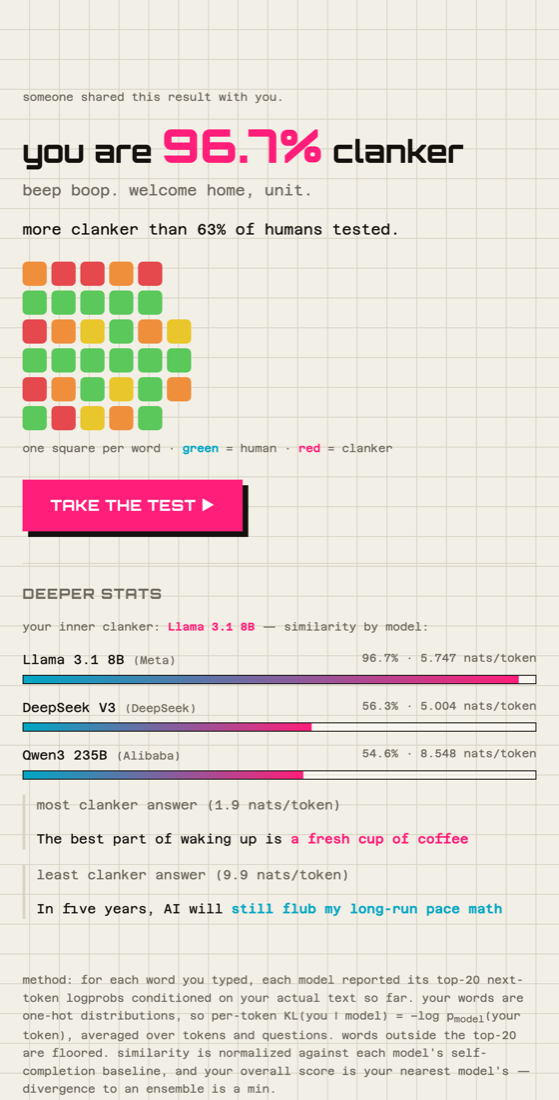
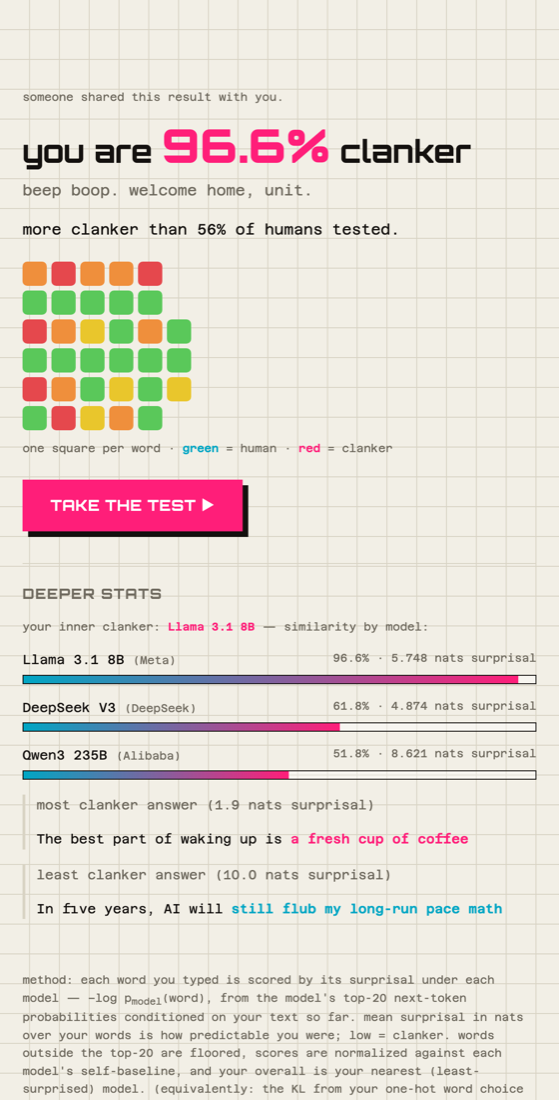
Reframe metric: KL divergence → surprisal (naming only)
The headline metric is surprisal — −log p(word), the exact term for one
observed event and the standard psycholinguistics name. Averaging it is
per-word cross-entropy, not a distance between rich distributions, so calling
it "KL divergence" overclaimed.

- Site + README + OG image + manifest now say surprisal (per word) / mean
  surprisal in nats. KL derivation demoted to a one-paragraph README footnote
  and a parenthetical in the results method text.
- Results UI: "nats/token" → "nats surprisal".
- Code comments/docstrings updated; scoring math and calibration untouched.
  `avg_kl` schema/API field names kept intentionally (no migration; would
  break existing share links).

diff --git a/public/index.html b/public/index.html
@@ -4,7 +4,7 @@
   <meta charset="utf-8">
   <meta name="viewport" content="width=device-width, initial-scale=1">
   <title>how clanker are you? — a reverse Turing test</title>
-  <meta name="description" content="Finish a few sentences. We measure the KL divergence between how you write and how AI models would, then score how much clanker is in you.">
+  <meta name="description" content="Finish a few sentences. We measure the surprisal of your writing under AI models — how well they predicted you — and score how much clanker is in you.">
   <link rel="canonical" href="https://howclankerareyou.com/">
   <meta name="theme-color" content="#f2efe6">
 
@@ -20,16 +20,16 @@
   <meta property="og:site_name" content="how clanker are you?">
   <meta property="og:url" content="https://howclankerareyou.com/">
   <meta property="og:title" content="how clanker are you?">
-  <meta property="og:description" content="A reverse Turing test: finish a few sentences and we measure the KL divergence between you and the machines. Find out how much clanker is in you.">
+  <meta property="og:description" content="A reverse Turing test: finish a few sentences and we measure how surprising your writing is to the machines. Find out how much clanker is in you.">
   <meta property="og:image" content="https://howclankerareyou.com/og.png">
   <meta property="og:image:width" content="1200">
   <meta property="og:image:height" content="630">
-  <meta property="og:image:alt" content="how clanker are you? — a KL-divergence Turing test, reversed">
+  <meta property="og:image:alt" content="how clanker are you? — a surprisal Turing test, reversed">
 
   <!-- twitter -->
   <meta name="twitter:card" content="summary_large_image">
   <meta name="twitter:title" content="how clanker are you?">
-  <meta name="twitter:description" content="A reverse Turing test. Measure the KL divergence between you and the machines.">
+  <meta name="twitter:description" content="A reverse Turing test. How surprising is your writing to the machines?">
   <meta name="twitter:image" content="https://howclankerareyou.com/og.png">
 
   <!-- structured data -->
@@ -39,7 +39,7 @@
     "@type": "WebApplication",
     "name": "how clanker are you?",
     "url": "https://howclankerareyou.com/",
-    "description": "A reverse Turing test that measures the KL divergence between how you write and how language models would.",
+    "description": "A reverse Turing test that measures the surprisal of your writing under language models.",
     "applicationCategory": "GameApplication",
     "operatingSystem": "Any",
     "offers": { "@type": "Offer", "price": "0", "priceCurrency": "USD" }
@@ -55,12 +55,12 @@
   <main id="app">
     <section id="view-landing" hidden>
       <h1 class="title">how clanker<br>are you?</h1>
-      <p class="sub">// a KL-divergence Turing test, reversed.</p>
+      <p class="sub">// a surprisal Turing test, reversed.</p>
       <p>Language models predict the next token. You, allegedly, do something
-      more interesting. Finish eight sentences; we measure the divergence
-      between you and the machines.</p>
-      <p><span class="accent">low divergence</span> = you write like a model.
-      <span class="good">high divergence</span> = congratulations, human.</p>
+      more interesting. Finish eight sentences; we measure how surprising your
+      writing is to the machines.</p>
+      <p><span class="accent">low surprisal</span> = the model saw you coming.
+      <span class="good">high surprisal</span> = congratulations, human.</p>
       <button id="btn-start" class="big">begin diagnostic ▶</button>
       <p class="demo" id="demo-note" hidden>⚠ demo mode: inference isn't funded
       yet — scores come from a deterministic stand-in, not the real models.</p>
@@ -101,12 +101,13 @@
       <div class="row">
         <button id="btn-again" hidden>run it again</button>
       </div>
-      <p class="fine" id="res-method">method: for each word you typed, each model reported its top-20
-      next-token logprobs conditioned on your actual text so far. your words are one-hot
-      distributions, so per-token KL(you ‖ model) = −log p<sub>model</sub>(your token),
-      averaged over tokens and questions. words outside the top-20 are floored.
-      similarity is normalized against each model's self-completion baseline, and your
-      overall score is your nearest model's — divergence to an ensemble is a min.
+      <p class="fine" id="res-method">method: each word you typed is scored by its surprisal under each
+      model — −log p<sub>model</sub>(word), from the model's top-20 next-token probabilities
+      conditioned on your text so far. mean surprisal in nats over your words is how predictable
+      you were; low = clanker. words outside the top-20 are floored, scores are normalized against
+      each model's self-baseline, and your overall is your nearest (least-surprised) model.
+      (equivalently: the KL from your one-hot word choice to the model's distribution collapses
+      to exactly this surprisal.)
       <span id="method-demo" hidden>(demo mode: logprobs are currently simulated.)</span></p>
     </section>
   </main>

diff --git a/src/scoring.js b/src/scoring.js
@@ -1,6 +1,9 @@
-// Per-token KL scoring against hosted models via the HuggingFace Inference
-// Providers router. The user's completion is a sequence of one-hot next-token
-// samples; KL(user ‖ model) at each position collapses to -log p_model(token).
+// Per-token surprisal scoring against hosted models via the HuggingFace
+// Inference Providers router. Each token the user typed has a surprisal
+// −log p_model(token) under the model's distribution — how unexpected it was.
+// (Equivalently, the KL from the user's one-hot next-token choice to the
+// model's distribution collapses to exactly that surprisal.) Field names in
+// the schema/API keep the historical `avg_kl` label; only the framing changed.
 //
 // We never tokenize the user's text ourselves. Instead we walk it greedily:
 // ask the model for its top-20 next tokens given (prompt + text consumed so
@@ -16,7 +19,7 @@ import { mockTopLogprobs } from './mock.js';
 
 const ROUTER = 'https://router.huggingface.co/v1/chat/completions';
 
-// d0 = the "generic LLM" divergence anchor (nats/token): the level at which a
+// d0 = the "generic LLM" surprisal anchor (nats/token): the level at which a
 // strong assistant's completion sits under this model. Text at or below d0
 // scores ~100% clanker. This is the panel model's self-completion baseline
 // (Llama 4.0 / DeepSeek 2.5 / Qwen 6.0) PLUS ~1.7 — because a foreign LLM's
@@ -60,7 +63,7 @@ export async function scoreModel(env, model, promptText, completion) {
   const perStep = [];
 
   // Word spans over the (space-prefixed) completion, so we can roll the
-  // per-token logprobs up into a per-word divergence for the share grid.
+  // per-token logprobs up into a per-word surprisal for the share grid.
   // Token boundaries differ per model, but words are the user's own, so
   // per-word values align across models.
   const source = ' ' + completion.trim();
@@ -103,7 +106,7 @@ export async function scoreModel(env, model, promptText, completion) {
   return { avgKL, steps: perStep.length, perStep, perWord };
 }
 
-// Per-word divergence (nats) → heat level for the share grid.
+// Per-word surprisal (nats) → heat level for the share grid.
 // 0 red = clanker (predictable), 3 green = human (surprising).
 export function heatLevel(kl) {
   if (kl == null) return null;

diff --git a/public/app.js b/public/app.js
@@ -142,7 +142,7 @@ function renderResults(fin, live) {
     <div class="model-row">
       <div class="head">
         <span>${esc(m.label)} <span class="fine">(${esc(m.maker)})</span></span>
-        <span class="kl">${m.score}% · ${m.avgKL} nats/token</span>
+        <span class="kl">${m.score}% · ${m.avgKL} nats surprisal</span>
       </div>
       <div class="bar"><div style="width:${Math.max(1, m.score)}%"></div></div>
     </div>`
@@ -249,7 +249,7 @@ function flash(btn, msg) {
 }
 
 // Most / least clanker answer, derived from the server grid so it renders on
-// shared pages too. Lowest per-question divergence = most clanker.
+// shared pages too. Lowest per-question surprisal = most clanker.
 function renderDetails(grid) {
   const rows = (grid || []).filter((r) => typeof r.kl === 'number' && r.answer);
   if (rows.length < 2) return '';
@@ -257,9 +257,9 @@ function renderDetails(grid) {
   const most = sorted[0];
   const least = sorted[sorted.length - 1];
   return (
-    `<div class="detail"><p class="q">most clanker answer (${most.kl.toFixed(1)} nats/token)</p>` +
+    `<div class="detail"><p class="q">most clanker answer (${most.kl.toFixed(1)} nats surprisal)</p>` +
     `<p>${esc(most.prompt)} <span class="accent">${esc(most.answer)}</span></p></div>` +
-    `<div class="detail"><p class="q">least clanker answer (${least.kl.toFixed(1)} nats/token)</p>` +
+    `<div class="detail"><p class="q">least clanker answer (${least.kl.toFixed(1)} nats surprisal)</p>` +
     `<p>${esc(least.prompt)} <span class="good">${esc(least.answer)}</span></p></div>`
   );
 }

diff --git a/src/index.js b/src/index.js
@@ -287,7 +287,7 @@ async function api(request, env, url, ctx) {
         questions: mine.length,
       };
     }).filter(Boolean);
-    // Divergence to the model ensemble is the min over members, so the overall
+    // Surprisal to the ensemble is a min over members (nearest model), so the overall
     // score is the nearest model's — your inner clanker sets your number.
     const overall = Math.max(...perModel.map((m) => m.score));
     const grid = buildGrid(rows);
@@ -323,7 +323,7 @@ async function api(request, env, url, ctx) {
 }
 
 // Build the shareable heat grid: one row per answered question, one cell per
-// word, colored by the word's divergence averaged across models (green =
+// word, colored by the word's surprisal averaged across models (green =
 // human/surprising, red = clanker/predictable).
 function buildGrid(rows) {
   const grid = [];
@@ -344,7 +344,7 @@ function buildGrid(rows) {
       const mean = vals.reduce((a, b) => a + b, 0) / vals.length;
       return heatLevel(mean);
     });
-    // Per-question divergence (mean across models) so the share page can rank
+    // Per-question surprisal (mean across models) so the share page can rank
     // most-clanker vs least-clanker answers.
     const kl = Math.round((answers.reduce((s, r) => s + r.avg_kl, 0) / answers.length) * 100) / 100;
     grid.push({ prompt: q.prompt, answer: words.join(' '), cells, kl });

diff --git a/src/analytics.js b/src/analytics.js
@@ -62,7 +62,7 @@ export async function gatherAnalytics(env) {
   const funnelMap = Object.fromEntries(funnelRows.map((r) => [r.question_id, r.n]));
   const funnel = QUESTIONS.map((qq, i) => ({ step: i + 1, prompt: qq.prompt, sessions: funnelMap[qq.id] || 0 }));
 
-  // Per-question clanker-ness (mean divergence; lower = more clanker).
+  // Per-question clanker-ness (mean surprisal; lower = more clanker).
   const qk = await q(`SELECT question_id, AVG(avg_kl) k, COUNT(*) n FROM answers GROUP BY question_id`);
   const qkMap = Object.fromEntries(qk.map((r) => [r.question_id, r.k]));
   const questionClanker = QUESTIONS.filter((qq) => qkMap[qq.id] != null)

diff --git a/src/dashboard.js b/src/dashboard.js
@@ -113,7 +113,7 @@ function render(d,email){
       '<div class="card"><h3>Clanker-score distribution</h3>'+bars(d.scoreHistogram.map(b=>({l:b.bucket+'%',v:b.count})),'l','v')+'</div>'+
       '<div class="card"><h3>Inner-clanker model (nearest)</h3>'+bars(d.modelShare,'label','count')+'</div>'+
       '<div class="card"><h3>Traffic sources</h3>'+(d.referrers.length?bars(d.referrers,'ref','count'):'<p class="muted">no referrer data yet</p>')+'</div>'+
-      '<div class="card"><h3>Most→least clanker question (avg nats/token)</h3>'+bars(d.questionClanker.map(q=>({l:q.prompt.slice(0,30),v:q.avgKl})),'l','v',v=>v.toFixed(1))+'</div>'+
+      '<div class="card"><h3>Most→least clanker question (avg surprisal, nats)</h3>'+bars(d.questionClanker.map(q=>({l:q.prompt.slice(0,30),v:q.avgKl})),'l','v',v=>v.toFixed(1))+'</div>'+
     '</div>'+
     '<p class="muted" style="margin-top:20px">updated '+new Date(d.updated).toLocaleString()+'</p>'+
     '</main>';

diff --git a/src/mock.js b/src/mock.js
@@ -1,6 +1,6 @@
 // Deterministic stand-in for a real logprobs endpoint, used while OpenRouter
 // credits are unfunded. It returns a plausible top-20 next-token distribution
-// so the scoring pipeline — greedy matching, KL, calibration, percentiles —
+// so the scoring pipeline — greedy matching, surprisal, calibration, percentiles —
 // runs end-to-end and the site is fully playable.
 //
 // It is NOT a language model. It qualitatively mimics one: common English

diff --git a/README.md b/README.md
@@ -1,8 +1,8 @@
 # how clanker are you?
 
 **A reverse Turing test.** Finish a few sentences, and three language models
-measure the KL divergence between how *you* write and how *they* would — then
-tell you how much clanker (robot) is in you.
+measure the **surprisal** of your writing — how well they predicted each word
+you typed — then tell you how much clanker (robot) is in you.
 
 **Live → [howclankerareyou.com](https://howclankerareyou.com)**
 
@@ -22,25 +22,32 @@ tell you how much clanker (robot) is in you.
 ## The idea
 
 Language models are next-token predictors. Give one a prefix and it returns a
-probability distribution over what comes next. When *you* finish a sentence,
-you commit to exactly one next token each step — a **one-hot distribution**.
-
-That collapses the math to something clean. The KL divergence between your
-one-hot choice and the model's distribution at each position is just:
+probability distribution over what comes next. Each word you actually type has a
+**surprisal** under that distribution — the standard psycholinguistics term for
+how unexpected an observed event is:
 
 ```
-KL(you ‖ model) = −log p_model(your token)
+surprisal(word) = −log p_model(word)
 ```
 
-Average that over every token you typed and you have a single number: how
-surprising your writing is to a language model. Low divergence means you write
-like a model (**clanker**); high divergence means you surprised it
-(**human**). It's a Turing test pointed backwards — instead of asking a machine
-to imitate a human, it asks how well a human imitates a machine.
+Average it over every word you typed and you get one number: how surprising your
+writing is to a language model. **Low surprisal** means the model saw you coming
+(**clanker**); **high surprisal** means you caught it off guard (**human**). It's
+a Turing test pointed backwards — instead of asking a machine to imitate a human,
+it asks how well a human imitates a machine.
+
+> **Isn't this just perplexity / KL?** It's mean per-word surprisal, i.e.
+> cross-entropy of your text under the model — the same family, named honestly.
+> Your finished sentence is a sequence of one-hot next-word choices, and the KL
+> divergence from each one-hot choice to the model's distribution collapses to
+> exactly that word's surprisal. Calling the headline metric "KL divergence"
+> would dress up per-word cross-entropy as a distance between two rich
+> distributions, which it isn't — so the metric is surprisal, and this is the
+> footnote.
 
 ## How the scoring actually works
 
-The tricky part: turning free text into per-token divergences without running a
+The tricky part: turning free text into per-token surprisals without running a
 tokenizer on either side. The Worker walks your completion greedily
 ([`src/scoring.js`](src/scoring.js)):
 
@@ -54,7 +61,7 @@ tokenizer on either side. The Worker walks your completion greedily
 
 Every step is conditioned on what you actually wrote, and word boundaries are
 the user's own — so the per-token logprobs also roll up into a **per-word
-divergence**, which drives the Wordle-style heat grid (green = human, red =
+surprisal**, which drives the Wordle-style heat grid (green = human, red =
 clanker) and its shareable emoji export.
 
 ## Calibration — the interesting failure
@@ -111,7 +118,7 @@ browser ── howclankerareyou.com ── Cloudflare Worker ─┬─ static SP
 
 ```
 src/index.js      API: /api/session, /api/score, /api/finish, /api/result/:id, /api/status
-src/scoring.js    greedy top-k matching, KL, per-word heat, calibrated score mapping
+src/scoring.js    greedy top-k matching, surprisal, per-word heat, calibrated score mapping
 src/mock.js       deterministic stand-in for the logprobs endpoint
 src/questions.js  server-side question bank
 public/           landing → quiz → results SPA, favicon/OG/SEO assets
@@ -135,8 +142,8 @@ For real inference, set `MOCK_INFERENCE=0` and add a HuggingFace token
 - Small open models can't perfectly separate careful human writing from LLM
   writing — the score is a fun signal, not a detector. Genuinely quirky answers
   are the reliable way to score low.
-- The per-word heat grid uses each model's raw divergence; the headline score is
-  calibrated and takes the *nearest* model (divergence to an ensemble is a min).
+- The per-word heat grid uses each model's raw surprisal; the headline score is
+  calibrated and takes the *nearest* (least-surprised) model.
 - Adding an OpenAI/Anthropic model to the panel would tighten scoring for text
   pasted from those specific families, at the cost of a paid logprobs endpoint.
 